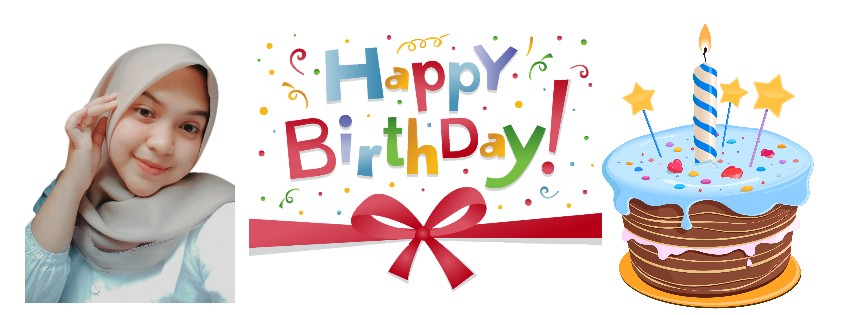
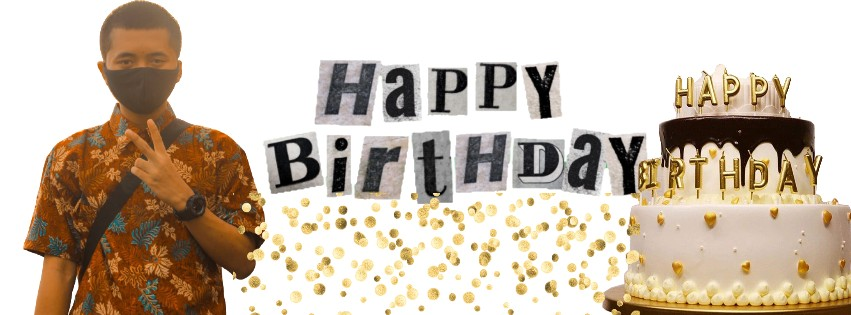
init

diff --git a/index.html b/index.html
@@ -1,71 +1,118 @@
 <!DOCTYPE html>
 <html lang="en">
+
 <head>
-<meta charset="UTF-8">
-<meta name="viewport" content="width=device-width, initial-scale=1.0">
+	<meta charset="UTF-8">
+	<meta name="viewport" content="width=device-width, initial-scale=1.0">
 
 
-<meta http-equiv="X-UA-Compatible" content="IE=edge,chrome=1">
-<title>ANNISA</title>
-<link rel="stylesheet" href="https://cdnjs.cloudflare.com/ajax/libs/normalize/5.0.0/normalize.min.css">
-<link rel="stylesheet" href="https://cdnjs.cloudflare.com/ajax/libs/animate.css/3.5.2/animate.min.css">
-<link rel="stylesheet" href="https://cdnjs.cloudflare.com/ajax/libs/balloon-css/0.5.0/balloon.min.css">
-<link href="https://afeld.github.io/emoji-css/emoji.css" rel="stylesheet">
-<link rel="shortcut icon" href="icon/favicon.ico" type="image/x-icon">
-<link rel="icon" href="favicon.ico" type="image/x-icon">
-<link rel="stylesheet" href="css/style.css">
-<meta name="theme-color" content="#F26B38">
-<script src="//cdn.jsdelivr.net/npm/sweetalert2@11"></script>
+	<meta http-equiv="X-UA-Compatible" content="IE=edge,chrome=1">
+	<title>Mizian</title>
+	<link rel="stylesheet" href="https://cdnjs.cloudflare.com/ajax/libs/normalize/5.0.0/normalize.min.css">
+	<link rel="stylesheet" href="https://cdnjs.cloudflare.com/ajax/libs/animate.css/3.5.2/animate.min.css">
+	<link rel="stylesheet" href="https://cdnjs.cloudflare.com/ajax/libs/balloon-css/0.5.0/balloon.min.css">
+	<link href="https://afeld.github.io/emoji-css/emoji.css" rel="stylesheet">
+	<link rel="shortcut icon" href="icon/favicon.ico" type="image/x-icon">
+	<link rel="icon" href="favicon.ico" type="image/x-icon">
+	<link rel="stylesheet" href="css/style.css">
+	<meta name="theme-color" content="#F26B38">
+	<script src="//cdn.jsdelivr.net/npm/sweetalert2@11"></script>
 </head>
+
 <body>
-  <div id="allf">
-   <br>
-<br>
-<br>
-<br>
-<br>
-<div id="card">
-<div id="card-inside">
-<div class="wrap wishesFont">
-    <center>
+	<div id="allf">
 		<br>
-    <p>Dear Annisa</p>
-	<p>yang hari ini ulangtahun minta dibikinin codingan,</p>
-	<p>Aku Punya Sesuatu</p>
-	<p>Klik tombol di bawah yah</p>
-	<button class="btn btn-primary" style="border-radius:50%;"><a href="index2.html" style="text-decoration: none; color: black;">BUKA</a></button>
-      </center>
-<p class="signed">dariku,
-	<br> .....
-</p>
-  
-</div>
-</div>
-<div id="card-front">
-<div class="wrap">
-<h1>Happy Birthday</h1>
-<div class="cake_and_velas">
-<div class="velas">
-<div class="fuego"></div>
-<div class="fuego"></div>
-<div class="fuego"></div>
-<div class="fuego"></div>
-<div class="fuego"></div>
-</div>
-<svg id="cake" version="1.1" x="0px" y="0px" width="290px" height="500px" viewBox="0 0 200 500" enable-background="new 0 0 200 500" xml:space="preserve"><path fill="#a88679" d="M173.667-13.94H26.333c-3.999 0-4-16.002 0-16.002h147.334c4 0 4.001 16.002 0 16.002z"><animate id="e" attributeName="d" calcMode="spline" keySplines="0 0 1 1; 0 0 1 1" begin="a.end" dur="0.3s" fill="freeze" values="M173.667-13.94c-49.298,0-102.782,0-147.334,0c-3.999,0-4-16.002,0-16.002 c44.697,0,96.586,0,147.334,0C177.667-29.942,177.668-13.94,173.667-13.94z ; M173.667,411.567c-47.995,12.408-102.955,12.561-147.334,0 c-3.848-1.089-0.189-16.089,3.661-15.002c44.836,12.66,90.519,12.753,139.427,0.07 C173.293,395.631,177.541,410.566,173.667,411.567z ; M173.667,427.569c-49.795,0-101.101,0-147.334,0c-3.999,0-4-16.002,0-16.002 c46.385,0,97.539,0,147.334,0C177.668,411.567,177.667,427.569,173.667,427.569z"/></path><path fill="#8b6a60" d="M100-178.521a3.364 3.364 0 0 1 3.364 3.363V-13.75a3.364 3.364 0 1 1-6.728 0v-40.607-76.575-44.226a3.364 3.364 0 0 1 3.364-3.363z"><animate id="a" attributeName="d" calcMode="spline" keySplines="0 0 1 1; 0 0 1 1; 0 0 0.58 1" begin="b.end" dur="0.5s" fill="freeze" values="M100-178.521c1.858,0,3.364,1.506,3.364,3.363c0,0,0,33.17,0,44.227 c0,19.144,0,57.431,0,76.574c0,10.152,0,40.607,0,40.607c0,1.858-1.506,3.364-3.364,3.364l0,0c-1.858,0-3.364-1.506-3.364-3.364c0,0,0-30.455,0-40.607c0-19.144,0-57.432,0-76.575c0-11.057,0-44.226,0-44.226C96.636-177.015,98.142-178.521,100-178.521 L100-178.521z ; M100,267.257c1.858,0,3.364,1.506,3.364,3.363c0,0,0,33.17,0,44.227 c0,19.143,0,57.43,0,76.574c0,10.151,0,40.606,0,40.606c0,1.858-1.506,3.364-3.364,3.364l0,0c-1.858,0-3.364-1.506-3.364-3.364 c0,0,0-30.455,0-40.606c0-19.145,0-57.432,0-76.576c0-11.057,0-44.225,0-44.225C96.636,268.763,98.142,267.257,100,267.257 L100,267.257z ; M93.928,405.433c-0.655,6.444-0.102,9.067,2.957,11.798c0,0,8.083,5.571,16.828,3.503 c18.629-4.406,43.813,6.194,50.792,7.791c14.75,3.375,9.162,6.867,9.162,6.867c-2.412,2.258-58.328,0-73.667,0l0,0 c-1.858,0-69.995,2.133-73.667,0c0,0-3.337-2.439,6.172-5.992c11.375-4.25,52.875,8.822,47.139-9.442 c-6.333-20.167,5.226-21.514,5.226-21.514c3.435-0.915,12.78-6.663,10.923-0.546L93.928,405.433z ; M102.242,427.569c5.348,0,14.079,0,17.462,0c0,0,17.026,0,27.504,0 c19.143,0,20.39-3.797,26.459,0c3,1.877,0,7.823,0,7.823c-2.412,2.258-58.328,0-73.667,0l0,0c-1.858,0-67.187,0-73.667,0 c0,0-4.125-4.983,0-7.823c5.201-3.58,16.085,0,23.725,0c8.841,0,20.762,0,20.762,0c3.686,0,8.597,0,19.511,0H102.242z"/></path><path fill="#a88679" d="M173.667-15.929H26.333c-3.999 0-4-16.002 0-16.002h147.334c4 0 3.999 16.002 0 16.002z"><animate id="b" attributeName="d" calcMode="spline" keySplines="0 0 1 1; 0 0 1 1; 0.25 0 0.58 1" begin="c.end" dur="0.5s" fill="freeze" values="M173.667-15.929c-46.512,0-105.486,0-147.334,0c-3.999,0-4-16.002,0-16.002 c43.566,0,97.96,0,147.334,0C177.667-31.931,177.666-15.929,173.667-15.929z ; M173.434,445.393c-47.269,8.001-105.245,8.001-147.334,0c-3.929-0.747-0.692-16.543,3.243-15.824 c43.828,8.001,92.165,8.001,140.739,0C174.029,428.918,177.377,444.726,173.434,445.393z ; M173.667,449.514c-47.576-5.454-102.799-5.744-147.333,0c-3.966,0.512-3.938-15.297,0-16.002 c43.683-7.823,97.646-8.026,147.333,0C177.616,434.15,177.642,449.969,173.667,449.514z ; M173.667,451.394c-49.298,0-102.782,0-147.334,0c-3.999,0-4-16.002,0-16.002 c44.697,0,96.586,0,147.334,0C177.667,435.392,177.668,451.394,173.667,451.394z"/></path><path fill="#8b6a60" d="M101.368-73.685V-6.35c0 1.753-2.958 1.847-2.958 0v-30.401-8.305-28.628c.001-2.199 2.958-1.908 2.958-.001z"><animate id="c" attributeName="d" calcMode="spline" keySplines="0 0 1 1; 0 0 1 1; 0 0 0.6 1" begin="d.end" dur="0.5s" fill="freeze" values="M101.368-73.685c0,12.164,0,15.18,0,28.519c0,22.702,0-13.661,0,8.304c0,14.48,0,18.233,0,30.512 c0,1.753-2.958,1.847-2.958,0c0-12.68,0-16.277,0-30.401c0-21.983,0,11.66,0-8.305c0-13.027,0-15.992,0-28.628 C98.411-75.883,101.368-75.592,101.368-73.685z ; M101.368,350.885c0,12.164,0,65.18,0,78.518c0,22.703,0-33.66,0-11.695c0,14.48,0,28.232,0,40.512 c0,1.753-2.958,1.847-2.958,0c0-12.68,0-26.277,0-40.402c0-21.982,0,31.66,0,11.695c0-13.027,0-65.992,0-78.627 C98.411,348.686,101.368,348.977,101.368,350.885z ; M128.38,447.567c37.626,6.312,39.303,13.658,26.833,12.833c-22.653-1.499-13.636-0.831-23.302-0.831 c-14.48,0-17.884,0-30.163,0c-2.087,0-2.068,0-3.915,0c-13.333,0-8.963,0-23.088,0c-11.668,0-14.062,5.995-27.532,1.164 c-12.629-4.529,38.667-3.167,46.833-17.333C100.077,432.94,105.546,443.736,128.38,447.567z ; M173.667,451.394c2.875,0,2.997,9.257,0,9.131c-22.662-0.956-32.09-0.956-41.756-0.956 c-14.48,0-17.884,0-30.163,0c-2.087,0-2.068,0-3.915,0c-13.333,0-8.963,0-23.088,0c-11.668,0-34.99-0.294-48.412,1.831 c-4.109,0.65-3.01-10.006,0-10.006C37.129,451.394,149.379,451.394,173.667,451.394z"/></path><path fill="#a88679" d="M173.667 21.571H26.333c-4 0-4-16.002 0-16.002h147.334c4.001 0 4 16.002 0 16.002z"><animate id="d" attributeName="d" calcMode="spline" keySplines="0 0 1 1; 0 0 1 1; 0 0 1 1; 0.25 0 1 1; 0 0 1 1; 0.25 0 0.6 1" begin="1s" dur="0.8s" fill="freeze" values="M173.667,21.571c-33.174,0-111.467,0-147.334,0c-4,0-4-16.002,0-16.002c39.836,0,105.982,0,147.334,0 C177.668,5.569,177.667,21.571,173.667,21.571z ; M173.667,459.569c-33.197,16.002-110.782,16.002-147.334,0c-3.664-1.604,1.614-15.617,5.337-14.153 c40.702,16.002,94.289,16.104,136.505,0.103C171.917,444.1,177.271,457.832,173.667,459.569z ; M171.817,475.571c-39.361-3.001-105.438-2.571-143.556,0c-3.991,0.27-7.377-14.736-3.387-15.014 c41.553-2.888,104.421-3.121,150.51-0.233C179.378,460.574,175.806,475.875,171.817,475.571z ; M171.817,459.564c-38.8-12.188-104.504-13.762-143.556,0c-3.772,1.329-7.961-12.604-4.178-13.905 c40.864-14.064,105.114-15.52,151.918-0.973C179.822,445.874,175.634,460.762,171.817,459.564z ; M173.667,475.571c-46.376-5.005-105.924-4.003-147.334,0c-3.981,0.385-3.479-15.421,0.479-16.002 c43.087-6.327,97.705-7.083,146.855,0.438C177.621,460.613,177.644,476,173.667,475.571z ; M173.667,474.117c-46.376,1.866-105.638,2.01-147.334,0c-3.995-0.192-3.52-16.144,0.479-16.002 c43.794,1.55,96.341,1.541,145.723,0C176.532,457.99,177.663,473.956,173.667,474.117z ; M173.667,475.571c-46.512,0-105.486,0-147.334,0c-3.999,0-4-16.002,0-16.002c43.566,0,97.96,0,147.334,0 C177.667,459.569,177.666,475.571,173.667,475.571z"/></path><path fill="#fefae9" d="M104.812 113.216c0 3.119-2.164 5.67-4.812 5.67-2.646 0-4.812-2.551-4.812-5.67V90.841 70.273v-29.33-22.092V5.67C95.188 2.551 97.353 0 100 0c2.648 0 4.812 2.551 4.812 5.669V113.216z"><animate attributeName="d" calcMode="spline" keySplines="0 0 1 1; 0 0 1 1; 0 0 1 1; 0.25 0 1 1; 0 0 1 1; 0 0 0.58 1" begin="e.end" dur="2s" fill="freeze" values="M104.812,113.216c0,3.119-2.164,5.67-4.812,5.67c-2.646,0-4.812-2.551-4.812-5.67c0-5.594,0-16.782,0-22.375	c0-5.143,0-15.427,0-20.568c0-7.333,0-21.998,0-29.33c0-5.523,0-16.569,0-22.092c0-3.295,0-9.885,0-13.181	C95.188,2.551,97.353,0,100,0c2.648,0,4.812,2.551,4.812,5.669c0,3.248,0,9.743,0,12.991c0,5.428,0,16.284,0,21.711	c0,7.618,0,22.854,0,30.472c0,4.952,0,14.854,0,19.807C104.812,96.292,104.812,107.576,104.812,113.216z ; M104.812,405.897c0,3.119-2.164,5.67-4.812,5.67c-2.646,0-4.812-2.551-4.812-5.67c0-5.594,0-16.782,0-22.376	c0-5.143,0-15.426,0-20.568c0-7.332,0-21.997,0-29.33c0-5.522,0-16.568,0-22.092c0-3.295,0-9.885,0-13.181	c0-3.118,2.165-5.669,4.812-5.669c2.648,0,4.812,2.551,4.812,5.669c0,3.247,0,9.743,0,12.991c0,5.428,0,16.283,0,21.711	c0,7.618,0,22.854,0,30.473c0,4.951,0,14.854,0,19.807C104.812,388.972,104.812,400.256,104.812,405.897z ; M111.873,411.567c-3.119,0-9.226,0-11.874,0c-2.646,0-7.748,0-10.867,0c-7.086,0-12.698,0-18.292,0	c-6.592,0-12.871,7.371-19.166,3.008c-10.043-6.961-7.776-10.169,2.991-17.745c12.61-8.873,27.713,1.994,25.919-7.531	c-2.589-13.742,11.008-14.513,11.365-17.789c0.441-4.051,4.235-11.107,8.051-8.175c3.113,2.393,1.007,8.008,0,13.159	c-1.871,9.569,8.058,2.113,9.494,14.155c2.592,21.732,21.184-0.675,29.309,7.976c5.216,5.553,18.413,5.552,15.426,12.942	c-3.131,7.745-15.825-4.369-23.8,2.903C126.261,418.271,118.301,411.567,111.873,411.567z ; M111.873,411.567c-3.119,0-9.226,0-11.874,0c-2.646,0-9.734,4.069-12.853,4.069	c-7.086,0-10.712-4.069-16.306-4.069c-6.592,0-12.12,6.013-19.166,3.008c-7.053-3.008-7.458,2.026-18.659,1.165	c-6.832-0.525-7.522-3.034-7.533-6.265c-0.037-10.336,22.073-2.452,36.613-2.628c10.234-0.124,19.856-1.439,37.905-2.102	c16.642-0.61,32.699,1.552,46.009,1.927c12.438,0.351,29.663-8.99,31.532,3.315c0.773,5.093-5.605,3.342-11.211,9.579	c-5.093,5.667-7.59-4.605-12.965-3.832c-8.269,1.189-14.962-8.537-22.937-1.265C126.261,418.271,118.301,411.567,111.873,411.567z ; M110.946,413.652c-2.904-1.137-8.405-2.748-12.446-0.97c-6.099,2.685-7.273,10.358-13.253,8.242	c-7.843-2.775-8.953-5.008-14.546-5.01c-24.653-0.011-4.849,26.507-18.264,26.507c-12.377,0,5.791-33.537-19.422-26.682	c-7.703,2.095-9.806-0.942-9.817-4.173c-0.037-10.336,24.357-4.544,38.897-4.72c10.234-0.124,19.856-1.439,37.905-2.102	c16.642-0.61,32.699,1.552,46.009,1.927c12.438,0.351,28.973-8.865,31.532,3.315c1.449,6.896,0.318,15.624-3.874,15.624	c-7.619,0-1.788-15.192-19.243-7.111c-7.581,3.51-15.963-9.738-26.669,1.066C120.644,426.744,118.381,416.561,110.946,413.652z ; M111.547,413.9c-2.969-0.956-8.775-0.949-13.167-0.5c-14.667,1.5-8.325,16.508-14.667,16.666	c-6.667,0.166-0.167-13.5-13.013-14.151c-30.471-1.545-5.572,46.651-18.987,46.651c-12.377,0,10.333-50.166-18.667-44.5	c-7.835,1.531-9.537-1.417-9.548-4.647c-0.037-10.336,23.675-5.177,38.215-5.353c10.234-0.124,20.618-1.671,38.667-2.333	c16.642-0.61,32.023,1.458,45.333,1.833c12.438,0.351,33.819-8.431,33.199,4.001c-0.532,10.666,0.414,26.166-5.245,25.833	c-7.606-0.447-2.954-31.5-19.243-18.899c-7.985,6.177-17.658-5.969-27.377,5.732C118.88,434.066,121.38,417.067,111.547,413.9z ; M111.547,415.233c-6.667-0.834-9.667,4.667-13.833,3.333c-19.649-6.291-8.158,22.176-14.5,22.334	c-6.667,0.166,2.833-18-13.333-22.167c-29.544-7.615-9.667,43.833-20.167,43.833c-10.333,0,8.004-55.006-16.833-39	c-7.5,4.833-9.508-3.78-9.299-7.004c0.799-12.329,23.592-7.153,38.132-7.329c10.234-0.124,20.238-1.505,38.287-2.167	c16.642-0.61,32.903,1.125,46.213,1.5c12.438,0.351,35.058-5.579,31.863,6.451c-5.532,20.833,1.25,28.216-4.409,27.883	c-7.606-0.447-6.058-37.895-20.62-23.333c-10.167,10.166-15.972-0.747-25,12C119.547,443.568,121.798,416.515,111.547,415.233z"/></path><path fill="#fefae9" d="M10 475.571h180v4H10z"/></svg>
-</div>
-</div>
-<button id="open" data-balloon="Klik untuk membuka!" data-balloon-length="medium" data-balloon-pos="left" data-balloon-visible>&gt;</button>
-<button id="close" data-balloon="! bɿɒɔ ɘƨolɔ oɈ ʞɔilƆ" data-balloon-length="medium" data-balloon-pos="left" data-balloon-visible>&lt;</button>
-<div class="card-front_inside">
-<br> <br> <br>
-<div class="polaroid">
-<div class="img" style="background-image: url('file.jpg')"></div>
-</div>
-<div class="shadow"></div>
-</div>
-</div>
-<script  src="js/index.js"></script>
-</div>
+		<br>
+		<br>
+		<br>
+		<br>
+		<div id="card">
+			<div id="card-inside">
+				<div class="wrap wishesFont">
+					<center>
+						<br>
+						<p>Hallo Mas miz</p>
+						<p>yang ulangtahun tanggal 3 April hehehe</p>
+						<p>ini buat kamu</p>
+						<p>Klik tombol di bawah</p>
+						<button class="btn btn-primary" style="border-radius:50%;"><a href="index2.html"
+								style="text-decoration: none; color: black;">BUKA</a></button>
+					</center>
+					<p class="signed">dari aku,
+						<br> .....
+					</p>
+
+				</div>
+			</div>
+			<div id="card-front">
+				<div class="wrap">
+					<h1>Happy Birthday</h1>
+					<div class="cake_and_velas">
+						<div class="velas">
+							<div class="fuego"></div>
+							<div class="fuego"></div>
+							<div class="fuego"></div>
+							<div class="fuego"></div>
+							<div class="fuego"></div>
+						</div>
+						<svg id="cake" version="1.1" x="0px" y="0px" width="290px" height="500px" viewBox="0 0 200 500"
+							enable-background="new 0 0 200 500" xml:space="preserve">
+							<path fill="#a88679"
+								d="M173.667-13.94H26.333c-3.999 0-4-16.002 0-16.002h147.334c4 0 4.001 16.002 0 16.002z">
+								<animate id="e" attributeName="d" calcMode="spline" keySplines="0 0 1 1; 0 0 1 1"
+									begin="a.end" dur="0.3s" fill="freeze"
+									values="M173.667-13.94c-49.298,0-102.782,0-147.334,0c-3.999,0-4-16.002,0-16.002 c44.697,0,96.586,0,147.334,0C177.667-29.942,177.668-13.94,173.667-13.94z ; M173.667,411.567c-47.995,12.408-102.955,12.561-147.334,0 c-3.848-1.089-0.189-16.089,3.661-15.002c44.836,12.66,90.519,12.753,139.427,0.07 C173.293,395.631,177.541,410.566,173.667,411.567z ; M173.667,427.569c-49.795,0-101.101,0-147.334,0c-3.999,0-4-16.002,0-16.002 c46.385,0,97.539,0,147.334,0C177.668,411.567,177.667,427.569,173.667,427.569z" />
+							</path>
+							<path fill="#8b6a60"
+								d="M100-178.521a3.364 3.364 0 0 1 3.364 3.363V-13.75a3.364 3.364 0 1 1-6.728 0v-40.607-76.575-44.226a3.364 3.364 0 0 1 3.364-3.363z">
+								<animate id="a" attributeName="d" calcMode="spline"
+									keySplines="0 0 1 1; 0 0 1 1; 0 0 0.58 1" begin="b.end" dur="0.5s" fill="freeze"
+									values="M100-178.521c1.858,0,3.364,1.506,3.364,3.363c0,0,0,33.17,0,44.227 c0,19.144,0,57.431,0,76.574c0,10.152,0,40.607,0,40.607c0,1.858-1.506,3.364-3.364,3.364l0,0c-1.858,0-3.364-1.506-3.364-3.364c0,0,0-30.455,0-40.607c0-19.144,0-57.432,0-76.575c0-11.057,0-44.226,0-44.226C96.636-177.015,98.142-178.521,100-178.521 L100-178.521z ; M100,267.257c1.858,0,3.364,1.506,3.364,3.363c0,0,0,33.17,0,44.227 c0,19.143,0,57.43,0,76.574c0,10.151,0,40.606,0,40.606c0,1.858-1.506,3.364-3.364,3.364l0,0c-1.858,0-3.364-1.506-3.364-3.364 c0,0,0-30.455,0-40.606c0-19.145,0-57.432,0-76.576c0-11.057,0-44.225,0-44.225C96.636,268.763,98.142,267.257,100,267.257 L100,267.257z ; M93.928,405.433c-0.655,6.444-0.102,9.067,2.957,11.798c0,0,8.083,5.571,16.828,3.503 c18.629-4.406,43.813,6.194,50.792,7.791c14.75,3.375,9.162,6.867,9.162,6.867c-2.412,2.258-58.328,0-73.667,0l0,0 c-1.858,0-69.995,2.133-73.667,0c0,0-3.337-2.439,6.172-5.992c11.375-4.25,52.875,8.822,47.139-9.442 c-6.333-20.167,5.226-21.514,5.226-21.514c3.435-0.915,12.78-6.663,10.923-0.546L93.928,405.433z ; M102.242,427.569c5.348,0,14.079,0,17.462,0c0,0,17.026,0,27.504,0 c19.143,0,20.39-3.797,26.459,0c3,1.877,0,7.823,0,7.823c-2.412,2.258-58.328,0-73.667,0l0,0c-1.858,0-67.187,0-73.667,0 c0,0-4.125-4.983,0-7.823c5.201-3.58,16.085,0,23.725,0c8.841,0,20.762,0,20.762,0c3.686,0,8.597,0,19.511,0H102.242z" />
+							</path>
+							<path fill="#a88679"
+								d="M173.667-15.929H26.333c-3.999 0-4-16.002 0-16.002h147.334c4 0 3.999 16.002 0 16.002z">
+								<animate id="b" attributeName="d" calcMode="spline"
+									keySplines="0 0 1 1; 0 0 1 1; 0.25 0 0.58 1" begin="c.end" dur="0.5s" fill="freeze"
+									values="M173.667-15.929c-46.512,0-105.486,0-147.334,0c-3.999,0-4-16.002,0-16.002 c43.566,0,97.96,0,147.334,0C177.667-31.931,177.666-15.929,173.667-15.929z ; M173.434,445.393c-47.269,8.001-105.245,8.001-147.334,0c-3.929-0.747-0.692-16.543,3.243-15.824 c43.828,8.001,92.165,8.001,140.739,0C174.029,428.918,177.377,444.726,173.434,445.393z ; M173.667,449.514c-47.576-5.454-102.799-5.744-147.333,0c-3.966,0.512-3.938-15.297,0-16.002 c43.683-7.823,97.646-8.026,147.333,0C177.616,434.15,177.642,449.969,173.667,449.514z ; M173.667,451.394c-49.298,0-102.782,0-147.334,0c-3.999,0-4-16.002,0-16.002 c44.697,0,96.586,0,147.334,0C177.667,435.392,177.668,451.394,173.667,451.394z" />
+							</path>
+							<path fill="#8b6a60"
+								d="M101.368-73.685V-6.35c0 1.753-2.958 1.847-2.958 0v-30.401-8.305-28.628c.001-2.199 2.958-1.908 2.958-.001z">
+								<animate id="c" attributeName="d" calcMode="spline"
+									keySplines="0 0 1 1; 0 0 1 1; 0 0 0.6 1" begin="d.end" dur="0.5s" fill="freeze"
+									values="M101.368-73.685c0,12.164,0,15.18,0,28.519c0,22.702,0-13.661,0,8.304c0,14.48,0,18.233,0,30.512 c0,1.753-2.958,1.847-2.958,0c0-12.68,0-16.277,0-30.401c0-21.983,0,11.66,0-8.305c0-13.027,0-15.992,0-28.628 C98.411-75.883,101.368-75.592,101.368-73.685z ; M101.368,350.885c0,12.164,0,65.18,0,78.518c0,22.703,0-33.66,0-11.695c0,14.48,0,28.232,0,40.512 c0,1.753-2.958,1.847-2.958,0c0-12.68,0-26.277,0-40.402c0-21.982,0,31.66,0,11.695c0-13.027,0-65.992,0-78.627 C98.411,348.686,101.368,348.977,101.368,350.885z ; M128.38,447.567c37.626,6.312,39.303,13.658,26.833,12.833c-22.653-1.499-13.636-0.831-23.302-0.831 c-14.48,0-17.884,0-30.163,0c-2.087,0-2.068,0-3.915,0c-13.333,0-8.963,0-23.088,0c-11.668,0-14.062,5.995-27.532,1.164 c-12.629-4.529,38.667-3.167,46.833-17.333C100.077,432.94,105.546,443.736,128.38,447.567z ; M173.667,451.394c2.875,0,2.997,9.257,0,9.131c-22.662-0.956-32.09-0.956-41.756-0.956 c-14.48,0-17.884,0-30.163,0c-2.087,0-2.068,0-3.915,0c-13.333,0-8.963,0-23.088,0c-11.668,0-34.99-0.294-48.412,1.831 c-4.109,0.65-3.01-10.006,0-10.006C37.129,451.394,149.379,451.394,173.667,451.394z" />
+							</path>
+							<path fill="#a88679"
+								d="M173.667 21.571H26.333c-4 0-4-16.002 0-16.002h147.334c4.001 0 4 16.002 0 16.002z">
+								<animate id="d" attributeName="d" calcMode="spline"
+									keySplines="0 0 1 1; 0 0 1 1; 0 0 1 1; 0.25 0 1 1; 0 0 1 1; 0.25 0 0.6 1" begin="1s"
+									dur="0.8s" fill="freeze"
+									values="M173.667,21.571c-33.174,0-111.467,0-147.334,0c-4,0-4-16.002,0-16.002c39.836,0,105.982,0,147.334,0 C177.668,5.569,177.667,21.571,173.667,21.571z ; M173.667,459.569c-33.197,16.002-110.782,16.002-147.334,0c-3.664-1.604,1.614-15.617,5.337-14.153 c40.702,16.002,94.289,16.104,136.505,0.103C171.917,444.1,177.271,457.832,173.667,459.569z ; M171.817,475.571c-39.361-3.001-105.438-2.571-143.556,0c-3.991,0.27-7.377-14.736-3.387-15.014 c41.553-2.888,104.421-3.121,150.51-0.233C179.378,460.574,175.806,475.875,171.817,475.571z ; M171.817,459.564c-38.8-12.188-104.504-13.762-143.556,0c-3.772,1.329-7.961-12.604-4.178-13.905 c40.864-14.064,105.114-15.52,151.918-0.973C179.822,445.874,175.634,460.762,171.817,459.564z ; M173.667,475.571c-46.376-5.005-105.924-4.003-147.334,0c-3.981,0.385-3.479-15.421,0.479-16.002 c43.087-6.327,97.705-7.083,146.855,0.438C177.621,460.613,177.644,476,173.667,475.571z ; M173.667,474.117c-46.376,1.866-105.638,2.01-147.334,0c-3.995-0.192-3.52-16.144,0.479-16.002 c43.794,1.55,96.341,1.541,145.723,0C176.532,457.99,177.663,473.956,173.667,474.117z ; M173.667,475.571c-46.512,0-105.486,0-147.334,0c-3.999,0-4-16.002,0-16.002c43.566,0,97.96,0,147.334,0 C177.667,459.569,177.666,475.571,173.667,475.571z" />
+							</path>
+							<path fill="#fefae9"
+								d="M104.812 113.216c0 3.119-2.164 5.67-4.812 5.67-2.646 0-4.812-2.551-4.812-5.67V90.841 70.273v-29.33-22.092V5.67C95.188 2.551 97.353 0 100 0c2.648 0 4.812 2.551 4.812 5.669V113.216z">
+								<animate attributeName="d" calcMode="spline"
+									keySplines="0 0 1 1; 0 0 1 1; 0 0 1 1; 0.25 0 1 1; 0 0 1 1; 0 0 0.58 1"
+									begin="e.end" dur="2s" fill="freeze"
+									values="M104.812,113.216c0,3.119-2.164,5.67-4.812,5.67c-2.646,0-4.812-2.551-4.812-5.67c0-5.594,0-16.782,0-22.375	c0-5.143,0-15.427,0-20.568c0-7.333,0-21.998,0-29.33c0-5.523,0-16.569,0-22.092c0-3.295,0-9.885,0-13.181	C95.188,2.551,97.353,0,100,0c2.648,0,4.812,2.551,4.812,5.669c0,3.248,0,9.743,0,12.991c0,5.428,0,16.284,0,21.711	c0,7.618,0,22.854,0,30.472c0,4.952,0,14.854,0,19.807C104.812,96.292,104.812,107.576,104.812,113.216z ; M104.812,405.897c0,3.119-2.164,5.67-4.812,5.67c-2.646,0-4.812-2.551-4.812-5.67c0-5.594,0-16.782,0-22.376	c0-5.143,0-15.426,0-20.568c0-7.332,0-21.997,0-29.33c0-5.522,0-16.568,0-22.092c0-3.295,0-9.885,0-13.181	c0-3.118,2.165-5.669,4.812-5.669c2.648,0,4.812,2.551,4.812,5.669c0,3.247,0,9.743,0,12.991c0,5.428,0,16.283,0,21.711	c0,7.618,0,22.854,0,30.473c0,4.951,0,14.854,0,19.807C104.812,388.972,104.812,400.256,104.812,405.897z ; M111.873,411.567c-3.119,0-9.226,0-11.874,0c-2.646,0-7.748,0-10.867,0c-7.086,0-12.698,0-18.292,0	c-6.592,0-12.871,7.371-19.166,3.008c-10.043-6.961-7.776-10.169,2.991-17.745c12.61-8.873,27.713,1.994,25.919-7.531	c-2.589-13.742,11.008-14.513,11.365-17.789c0.441-4.051,4.235-11.107,8.051-8.175c3.113,2.393,1.007,8.008,0,13.159	c-1.871,9.569,8.058,2.113,9.494,14.155c2.592,21.732,21.184-0.675,29.309,7.976c5.216,5.553,18.413,5.552,15.426,12.942	c-3.131,7.745-15.825-4.369-23.8,2.903C126.261,418.271,118.301,411.567,111.873,411.567z ; M111.873,411.567c-3.119,0-9.226,0-11.874,0c-2.646,0-9.734,4.069-12.853,4.069	c-7.086,0-10.712-4.069-16.306-4.069c-6.592,0-12.12,6.013-19.166,3.008c-7.053-3.008-7.458,2.026-18.659,1.165	c-6.832-0.525-7.522-3.034-7.533-6.265c-0.037-10.336,22.073-2.452,36.613-2.628c10.234-0.124,19.856-1.439,37.905-2.102	c16.642-0.61,32.699,1.552,46.009,1.927c12.438,0.351,29.663-8.99,31.532,3.315c0.773,5.093-5.605,3.342-11.211,9.579	c-5.093,5.667-7.59-4.605-12.965-3.832c-8.269,1.189-14.962-8.537-22.937-1.265C126.261,418.271,118.301,411.567,111.873,411.567z ; M110.946,413.652c-2.904-1.137-8.405-2.748-12.446-0.97c-6.099,2.685-7.273,10.358-13.253,8.242	c-7.843-2.775-8.953-5.008-14.546-5.01c-24.653-0.011-4.849,26.507-18.264,26.507c-12.377,0,5.791-33.537-19.422-26.682	c-7.703,2.095-9.806-0.942-9.817-4.173c-0.037-10.336,24.357-4.544,38.897-4.72c10.234-0.124,19.856-1.439,37.905-2.102	c16.642-0.61,32.699,1.552,46.009,1.927c12.438,0.351,28.973-8.865,31.532,3.315c1.449,6.896,0.318,15.624-3.874,15.624	c-7.619,0-1.788-15.192-19.243-7.111c-7.581,3.51-15.963-9.738-26.669,1.066C120.644,426.744,118.381,416.561,110.946,413.652z ; M111.547,413.9c-2.969-0.956-8.775-0.949-13.167-0.5c-14.667,1.5-8.325,16.508-14.667,16.666	c-6.667,0.166-0.167-13.5-13.013-14.151c-30.471-1.545-5.572,46.651-18.987,46.651c-12.377,0,10.333-50.166-18.667-44.5	c-7.835,1.531-9.537-1.417-9.548-4.647c-0.037-10.336,23.675-5.177,38.215-5.353c10.234-0.124,20.618-1.671,38.667-2.333	c16.642-0.61,32.023,1.458,45.333,1.833c12.438,0.351,33.819-8.431,33.199,4.001c-0.532,10.666,0.414,26.166-5.245,25.833	c-7.606-0.447-2.954-31.5-19.243-18.899c-7.985,6.177-17.658-5.969-27.377,5.732C118.88,434.066,121.38,417.067,111.547,413.9z ; M111.547,415.233c-6.667-0.834-9.667,4.667-13.833,3.333c-19.649-6.291-8.158,22.176-14.5,22.334	c-6.667,0.166,2.833-18-13.333-22.167c-29.544-7.615-9.667,43.833-20.167,43.833c-10.333,0,8.004-55.006-16.833-39	c-7.5,4.833-9.508-3.78-9.299-7.004c0.799-12.329,23.592-7.153,38.132-7.329c10.234-0.124,20.238-1.505,38.287-2.167	c16.642-0.61,32.903,1.125,46.213,1.5c12.438,0.351,35.058-5.579,31.863,6.451c-5.532,20.833,1.25,28.216-4.409,27.883	c-7.606-0.447-6.058-37.895-20.62-23.333c-10.167,10.166-15.972-0.747-25,12C119.547,443.568,121.798,416.515,111.547,415.233z" />
+							</path>
+							<path fill="#fefae9" d="M10 475.571h180v4H10z" />
+						</svg>
+					</div>
+				</div>
+				<button id="open" data-balloon="Klik untuk membuka!" data-balloon-length="medium"
+					data-balloon-pos="left" data-balloon-visible>&gt;</button>
+				<button id="close" data-balloon="! bɿɒɔ ɘƨolɔ oɈ ʞɔilƆ" data-balloon-length="medium"
+					data-balloon-pos="left" data-balloon-visible>&lt;</button>
+				<div class="card-front_inside">
+					<br> <br> <br>
+					<div class="polaroid">
+						<div class="img" style="background-image: url('file.jpg')"></div>
+					</div>
+					<div class="shadow"></div>
+				</div>
+			</div>
+			<script src="js/index.js"></script>
+		</div>
 </body>
+
 </html>

diff --git a/index2.html b/index2.html
@@ -5,7 +5,7 @@
 <!--[if gt IE 8]> <html> <![endif]-->
 <!--[if !IE]><!--><html lang="en"><!-- <![endif]-->
 <head>
-	<title>ANNISA</title>
+	<title>Mizian2</title>
 	<meta charset="UTF-8" />
 	<meta name="description" content="Happy Birthday Friend">
 	<meta name="robots" content="index, follow" />
@@ -43,25 +43,25 @@
 	   Your browser isn't invited for super fun audio time.
     </audio>
     <div class="balloons text-center" id="b1">
-    	<h2 style="color:#F2B300;">A</h2>
+    	<h2 style="color:#F2B300;">M</h2>
     </div>
     <div class="balloons text-center" id="b2">
-    	<h2 style="color:#0719D4;">N</h2>
+    	<h2 style="color:#0719D4;">I</h2>
     </div>
 	<div class="balloons text-center" id="b3">
-    	<h2 style="color:#D14D39;">N</h2>
+    	<h2 style="color:#D14D39;">Z</h2>
     </div>
 	<div class="balloons text-center" id="b4">
     	<h2 style="color:#8FAD00;">I</h2>
     </div>
 	<div class="balloons text-center" id="b5">
-    	<h2 style="color:#8377E4;">S</h2>
+    	<h2 style="color:#8377E4;">A</h2>
     </div>
     <div class="balloons text-center" id="b6">
-    	<h2 style="color:#99C96A;">A</h2>
+    	<h2 style="color:#99C96A;">N</h2>
     </div>
     <div class="balloons text-center" id="b7">
-    	<h2 style="color:#20CFB4;">20</h2>
+    	<h2 style="color:#20CFB4;">22</h2>
     </div>
 
     <img src="Balloon-Border.png" width="100%" class="balloon-border">
@@ -111,58 +111,58 @@
 		</div>
 		<div class="row message">
 			<div class="col-md-12">
-				<p>Dear Annisa...</p>
-				<p>Harusnya kita dulu merayakan bareng</p>
-				<p>agar hari hari sekarang ga menyesal</p>
-				<p>aku menyesal</p>
-				<p>karena kita jarang merayakan</p>
-				<p><strong>Tapi</strong></p>
-				<p>Do you know..?</p>
-				<p>today is just special</p>
-				<p>so special to you</p>
-				<p>that's why</p>
+				<p>Hallo Mas Miz...</p>
+				<p>keknya bikin codingan kayak gini bertele tele ya</p>
+				<p>terlalu ga simple buat dijadiin kado</p>
+				<p>tapi effortnya</p>
+				<p>Happy Birthday</p>
+				<p><strong>Ke 22 tahun</strong></p>
+				<p>harusnya tanggal 3 yah</p>
+				<p>maap aku yang suka lupa</p>
+				<p>But</p>
+				<p>late is not problem if you always happy,that's why</p>
 				<p>Let's make it...</p>
 				<p>the best celebration ever</p>
 				<p>and let me share...</p>
 				<p>a piece of happiness to you</p>
 				<p>aku berusaha buat ini...</p>
-				<p>cuman buat kamu</p>
+				<p>hahahahahahaha</p>
 				<p>meskipun susahhhhhhhhhhhhh</p>
-				<p>thanks for the friendship we made</p>
-				<p>thanks for everything</p>
+				<p>tapi ga papa ga tiap tahun juga</p>
+				<p>ga tiap tahun jg aku inget ngucapin, So....</p>
 				<p>I wish you all the best</p>
 				<p>May your life be at ease</p>
 				<p>May all your wishes come true</p>
-				<p>Remember</p>
-				<p>sampai kapanpun</p>
-				<p>kita adalah sahabat, sodara...</p>
-				<p>gapai semua impian kamu</p>
-				<p>Meskipun kita ditempat yang berbeda...</p>
-				<p>aku percaya kamu bisa</p>
-				<p>Sa</p>
-				<p>Kangen..</p>
-				<p>kapan yaa kita ketemu lagi...</p>
-				<p>padahal cuman 13 jam</p>
-				<p>tapi kayak susah banget di waktu...</p>
-				<p>aku harap</p>
-				<p>kamu</p>
+				<p>kurangin cueknya</p>
+				<p>kamu ramah sih</p>
+				<p>ya udah pertahankan</p>
+				<p>sampe kamu mencair sendiri nanti</p>
+				<p>kapan ke jakarta?</p>
+				<p>aku belum nepatin janjiku </p>
+				<p>h-2 hari kejakarta bilang yah</p>
+				<p>biar aku prepare</p>
+				<p>biar bisa siap siap nganterin km kesuatu tempat</p>
+				<p>bagus bgt dijamin ga nyesel</p>
+				<p>ntar kita main</p>
+				<p>hmmmmmm ngomong apalagi ya</p>
+				<p>wkwkwkwkwk</p>
 				<p>bahagia selalu</p>
 				<p>sehat selalu</p>
-				<p>dan menemukan cinta yang sesungguhnya...</p>
-				<p>orang yang selalu kamu impikan</p>
-				<p>orang yang km butuhkan</p>
-				<p>dan orang yang kamu inginkan...</p>
-				<p>semoga</p>
-				<p>kamu suka ya sama kado simple ini</p>
-				<p>berterimakasih lah sama temenku..</p>
-				<p>dia mau ngajarin aku...</p>
-				<p>btw Thnk u udah mau sahabatan sama aku,
+				<p>beribadah</p>
+				<p>tapi aku percaya kamu beribadah dengan baik</p>
+				<p>kamu pernah bilang</p>
+				<p>ibadah itu antara diri sendiri dengan tuhan</p>
+				<p>bukan dengan orang lain</p>
+				<p>ga nyangka kan aku bisa ngoding</p>
+				<p>sama aku juga wkwkwkwk</p>
+				<p>terlalu mustahil buat aku menekuni ini</p>
+				<p>cita cita dokter malah terjun ke hacker, 
 				</p>
-				<p>	the last semoga pileknya sembuh,
+				<p>	the last semoga cepet kelar magang,
 							</p>
-				<p>kamu spesial</p>
-				<p>dan kamu berharga</p>
-				<p>Sampe ketemu lagi ya Sa, Love u</p>
+				<p>makasih udah ngeladenin ke randoman aku</p>
+				<p>dan kamu baik</p>
+				<p>Sampe ketemu di Jakarta wkwkwkw smg yah</p>
 				<p style="text-align: center; align-items: center;"><button class="btn btn-success" style="text-align: center;"><a style="color: black; text-decoration: none;" href="https://api.whatsapp.com/send?phone=6285211662674&text=Aku%ingi%mengatakan%apa%yang%belum%pernah%aku%katakan.">KLIK</a></button></p>
 						</div>
 		</div>
@@ -173,7 +173,7 @@
 					<button class="btn btn-primary" id="play">PUTAR MUSIK</button>
 					<button class="btn btn-primary" id="bannar_coming">DEKORASI</button>
 					<button class="btn btn-primary" id="balloons_flying">MUNCULKAN SESUATU</button>
-					<button class="btn btn-primary" id="cake_fadein">SPESIAL BUAT KAMU</button>
+					<button class="btn btn-primary" id="cake_fadein">KLIK BUAT KAMU</button>
 					<button class="btn btn-primary" id="light_candle">KLIK</button>
 					<button class="btn btn-primary" id="wish_message">Happy Birthday</button>
 					<button class="btn btn-primary" id="story">BACA PESANNYA</button>
